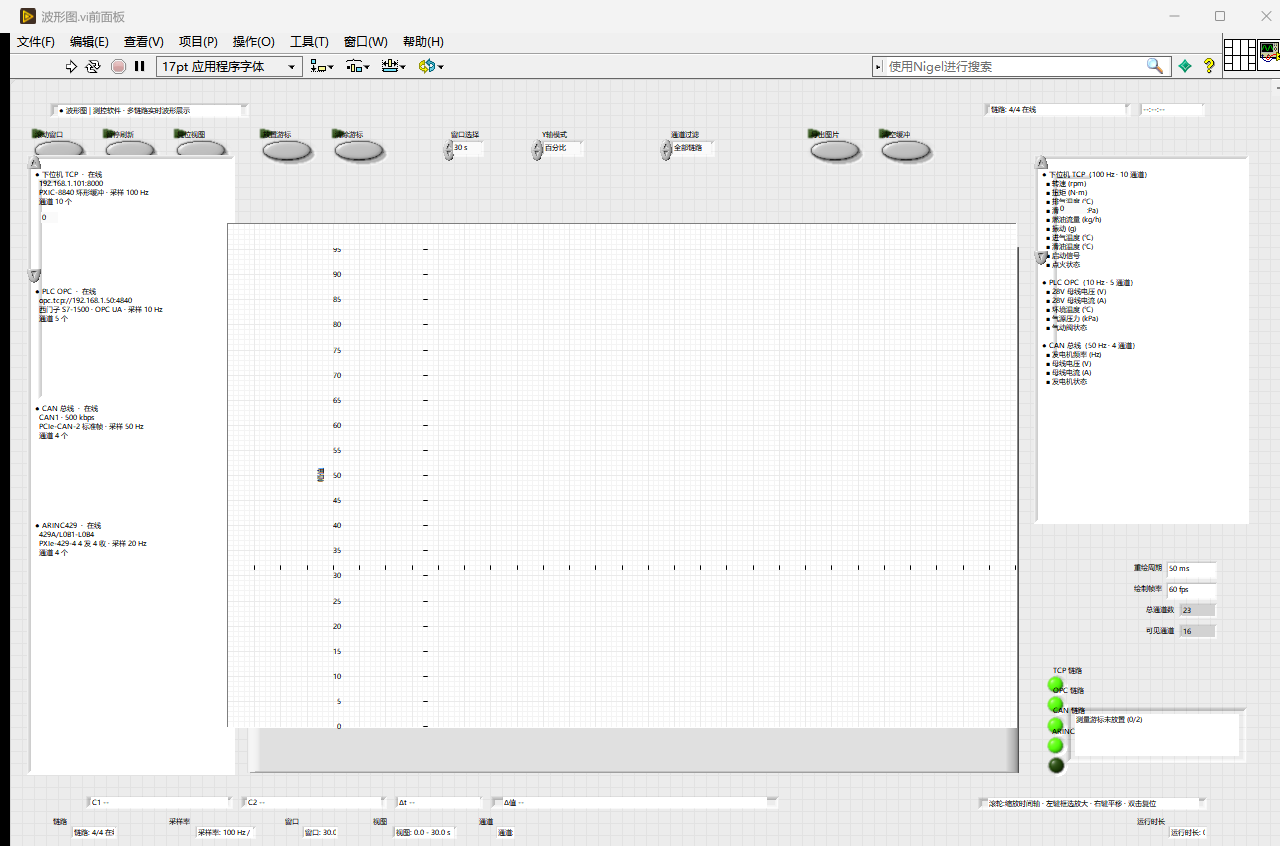
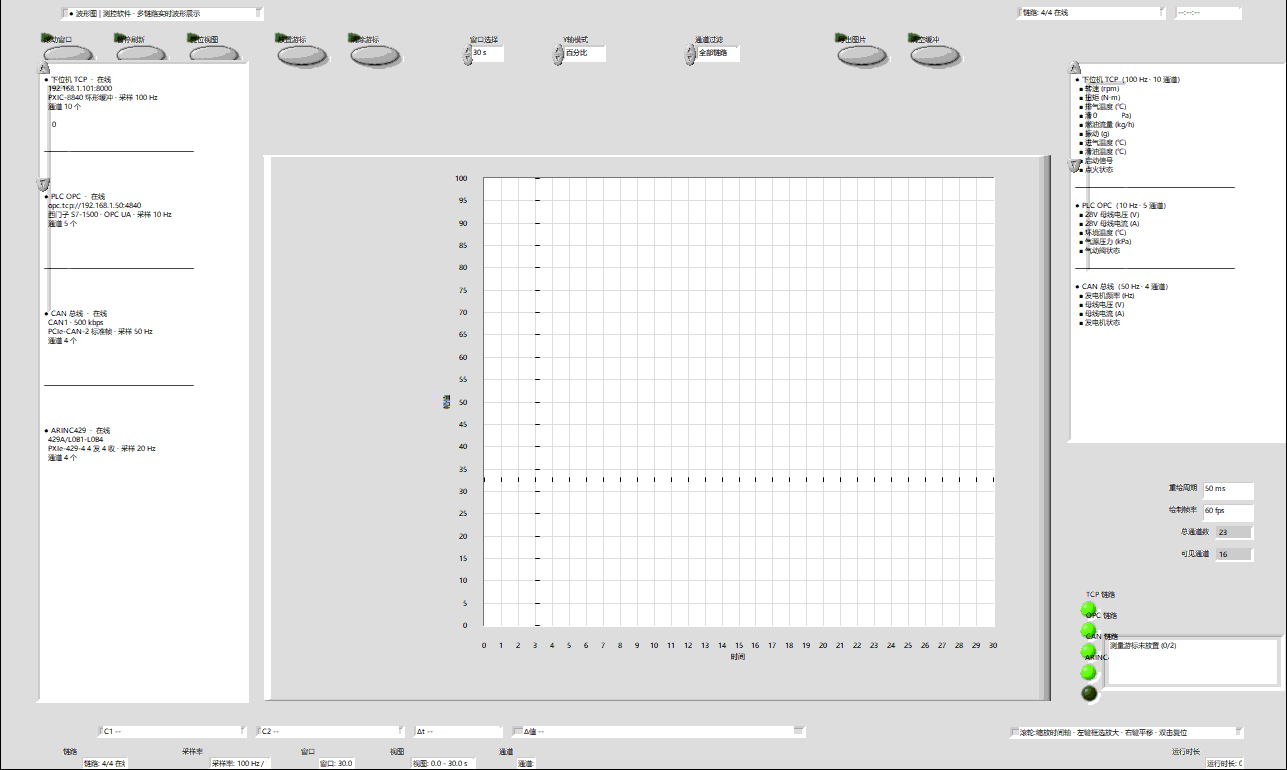
research: round 19 artifacts refresh - axis labels fixed, legend pushed out
Refresh the round19 artifact set with the version that actually renders the
X-axis labels (scaleRect 636,478,672,976) and has the legend removed via
negative bounds on part 510. Add the html-vs-vi comparison sheet.

diff --git a/research/artifacts/round19/build.py b/research/artifacts/round19/build.py
@@ -132,25 +132,28 @@ BTN_ARROW = 86
 # 局部坐标把它们重新摆一遍：绘图区吃满，Y 轴贴左，X 轴贴底。
 # 注意 dynBounds 才是渲染用的动态边界，只改 bounds 不生效。
 GRAPH_PARTS = {
-    417: (35, 100, 531, 770),    # 绘图区：左边让出 100 给 Y 轴刻度，底边到控件下沿
-    405: (585, 100, 640, 770),   # X 轴
-    510: (2, 756, 10, 764),      # 图例示意块：缩到右上角（等于隐藏）
+    # 白面回满高；图例示意块缩成 1x1（visBool=False 关不掉图例，只有缩块有效）
+    417: (83, 235, 523, 733),
+    510: (-120, 0, -119, 1),     # 图例框推到控件上方外侧（负坐标）
 }
+# 单变量实验：405 的 bounds / howGrow 都不动，只改 ScaleData 里的 scaleRect，
+# 看 X 轴是否跟着走（Round18 里 Y 轴就是这样挪出来的）。
+# 让 bounds 真正生效：scale 的常规 howGrow 是 4144（bit12 + 两个位），
+# 加载时按设计尺寸比例重算，写进去的 bounds 被覆盖。改 5 后立即采用。
+GRAPH_HOWGROW = {405: 5}
 
 # 坐标轴的屏幕坐标缓存：scaleRMin32/RMax32 存的是"轴线起止点的面板绝对坐标"，
 # 它们不会跟着零件 bounds 一起变 —— 只改 bounds 不同步改缓存，LabVIEW 会按旧缓存
 # 把刻度画到老位置（这就是之前 X 轴刻度浮在格子中间的原因）。
 AXIS_SPAN = {
-    410: (342, 995),    # X 轴：RMin=绘图区左边, RMax=绘图区右边
-    416: (625, 154),    # Y 轴：RMin=绘图区底边, RMax=绘图区顶边
+    0: (478, 976),      # X 轴：RMin/RMax = 轴线两个端点的屏幕 x
 }
 
 # 坐标轴真正的位置存在 <scaleRect> 里（面板绝对坐标, 顺序 top/left/bottom/right），
 # 改 bounds / dynBounds 都不动它 —— 这就是"X 轴刻度一直浮在格子中间"的根因。
 # 顺序与 XML 里出现顺序一致：第一条 = X 轴, 第二条 = Y 轴。
 SCALE_RECTS = [
-    (470, 337, 515, 1007),    # X 轴
-    (145, 305, 635, 418),     # Y 轴
+    (636, 478, 672, 976),     # X 轴：绝对坐标（ddo 原点 113,243 + 相对 523,235,559,733）
 ]
 # 注意：图例树(420)、图例数组(463)、图例簇(432) 三个零件不要动，也不要清
 # GraphPlotLegendData —— 它们要么改不动（LabVIEW 按内容重算），要么一改就直接
@@ -159,7 +162,7 @@ SCALE_RECTS = [
 # scaleRMin32/RMax32 屏幕坐标缓存，外框改了不同步改缓存，LabVIEW 会按旧缓存
 # 把轴拉到画布外面，导出画布从 1222 撑成 1573。
 GRAPH_DYN = {
-    405: (585, 100, 640, 770),   # X 轴 dynBounds 与 bounds 一致
+    405: (523, 235, 559, 733),   # X 轴 dynBounds 与 bounds 一致
 }
 
 # ---------------------------------------------------------------------------
@@ -547,11 +550,24 @@ def _part_span(seg, pu):
     return m.start(), sla_span(seg, m.start())
 
 
+def _nth_scale_cache(seg, idx, rmin, rmax):
+    """改第 idx 个 ScaleData 的轴线端点缓存（第 0 个 = X 轴，第 1 个 = Y 轴）。"""
+    hits = list(re.finditer(r'<scaleRMin32>-?\d+</scaleRMin32>\s*<scaleRMax32>-?\d+</scaleRMax32>', seg))
+    if idx >= len(hits):
+        print('  !! ScaleData 缓存只找到 %d 组，需要第 %d 组' % (len(hits), idx))
+        return seg
+    m = hits[idx]
+    new = '<scaleRMin32>%d</scaleRMin32><scaleRMax32>%d</scaleRMax32>' % (rmin, rmax)
+    return seg[:m.start()] + new + seg[m.end():]
+
+
 def style_graph(s):
     """波形图：钉死 howGrow，把绘图区撑满，把两条坐标轴挪到绘图区外面。"""
     # howGrow=240 会让 LabVIEW 在加载时按比例重算控件尺寸，结果控件永远比
     # 写进去的 ddo bounds 小一大截。改成 5（只钉左上、不跟随缩放）后才稳定。
-    for uid in (393, 550, 581):
+    # 只给两个"数组当卡片"的控件钉 howGrow。图形控件内部零件不要动：
+    # scale 的 howGrow 是 4144/4288，改 5 会让引擎改用 bounds，反而把轴顶到画布外。
+    for uid in (393, 581):
         sp = _fpdco_span(s, uid)
         if not sp:
             continue
@@ -559,9 +575,13 @@ def style_graph(s):
         seg = re.sub(r'<howGrow>[^<]*</howGrow>', '<howGrow>5</howGrow>', s[a:b])
         s = s[:a] + seg + s[b:]
 
-    # 图例关掉（HTML 里没有图例，曲线名在右栏"通道图例"卡片上）
+    # 图例关掉（HTML 里没有图例，曲线名在右栏"通道图例"卡片上）。
+    # visBool=False 只是不画"图例条目"，那个小方块还在，所以再把名字清空 + 由
+    # GRAPH_PARTS 把 510 缩成 1x1，三重手段一起用才看不见。
     s = re.sub(r'(<SL__arrayElement class="PlotLegendData">(?:(?!</SL__arrayElement>).)*?)'
                r'<visBool>True</visBool>', r'\1<visBool>False</visBool>', s, flags=re.S)
+    s = re.sub(r'(<SL__arrayElement class="PlotLegendData">\s*<name>)"[^"]*"',
+               r'\1""', s)
 
     sp = _fpdco_span(s, 550)
     if not sp:
@@ -586,18 +606,11 @@ def style_graph(s):
     for pu, box in GRAPH_PARTS.items():
         set_b(pu, box)
 
-    # 坐标轴屏幕坐标缓存同步（否则刻度画在旧位置）
-    for pu, (rmin, rmax) in AXIS_SPAN.items():
-        ps = _part_span(seg, pu)
-        if not ps:
-            print('  !! 轴缓存零件 %d 未找到' % pu)
-            continue
-        pa, pb = ps
-        sub = re.sub(r'<scaleRMin32>-?\d+</scaleRMin32>',
-                     '<scaleRMin32>%d</scaleRMin32>' % rmin, seg[pa:pb])
-        sub = re.sub(r'<scaleRMax32>-?\d+</scaleRMax32>',
-                     '<scaleRMax32>%d</scaleRMax32>' % rmax, sub)
-        seg = seg[:pa] + sub + seg[pb:]
+    # 轴线起止点的屏幕坐标缓存（scaleRMin32/RMax32）。它在 <ScaleData> 里，
+    # 不在 405/411 零件内 —— 之前按零件 uid 找是白改（一个都没命中）。
+    # ScaleData 元素没有 uid，只能按出现顺序改：第 1 个 = X 轴，第 2 个 = Y 轴。
+    for idx, (rmin, rmax) in AXIS_SPAN.items():
+        seg = _nth_scale_cache(seg, idx, rmin, rmax)
 
     # scaleRect 才是坐标轴的位置
     n = [0]
@@ -711,7 +724,8 @@ def main():
     if k > 0:
         e = seg.find('</SL__arrayElement>', k)
         sub = seg[k:e]
-        sub = re.sub(r'<ImageResID>-?\d+</ImageResID>', '<ImageResID>0</ImageResID>', sub)
+        # 注意：把 ImageResID 改成 0 会让面板底色变成纯黑（贴图没了、bgColor 也没顶上），
+        # 所以那张 -704 灰度贴图必须留着 —— 它就是现在的浅灰底。
         sub = re.sub(r'<bgColor>[^<]*</bgColor>', '<bgColor>%s</bgColor>' % PANE_BG, sub)
         sub = re.sub(r'<fgColor>[^<]*</fgColor>', '<fgColor>%s</fgColor>' % PANE_BG, sub)
         seg = seg[:k] + sub + seg[e:]
